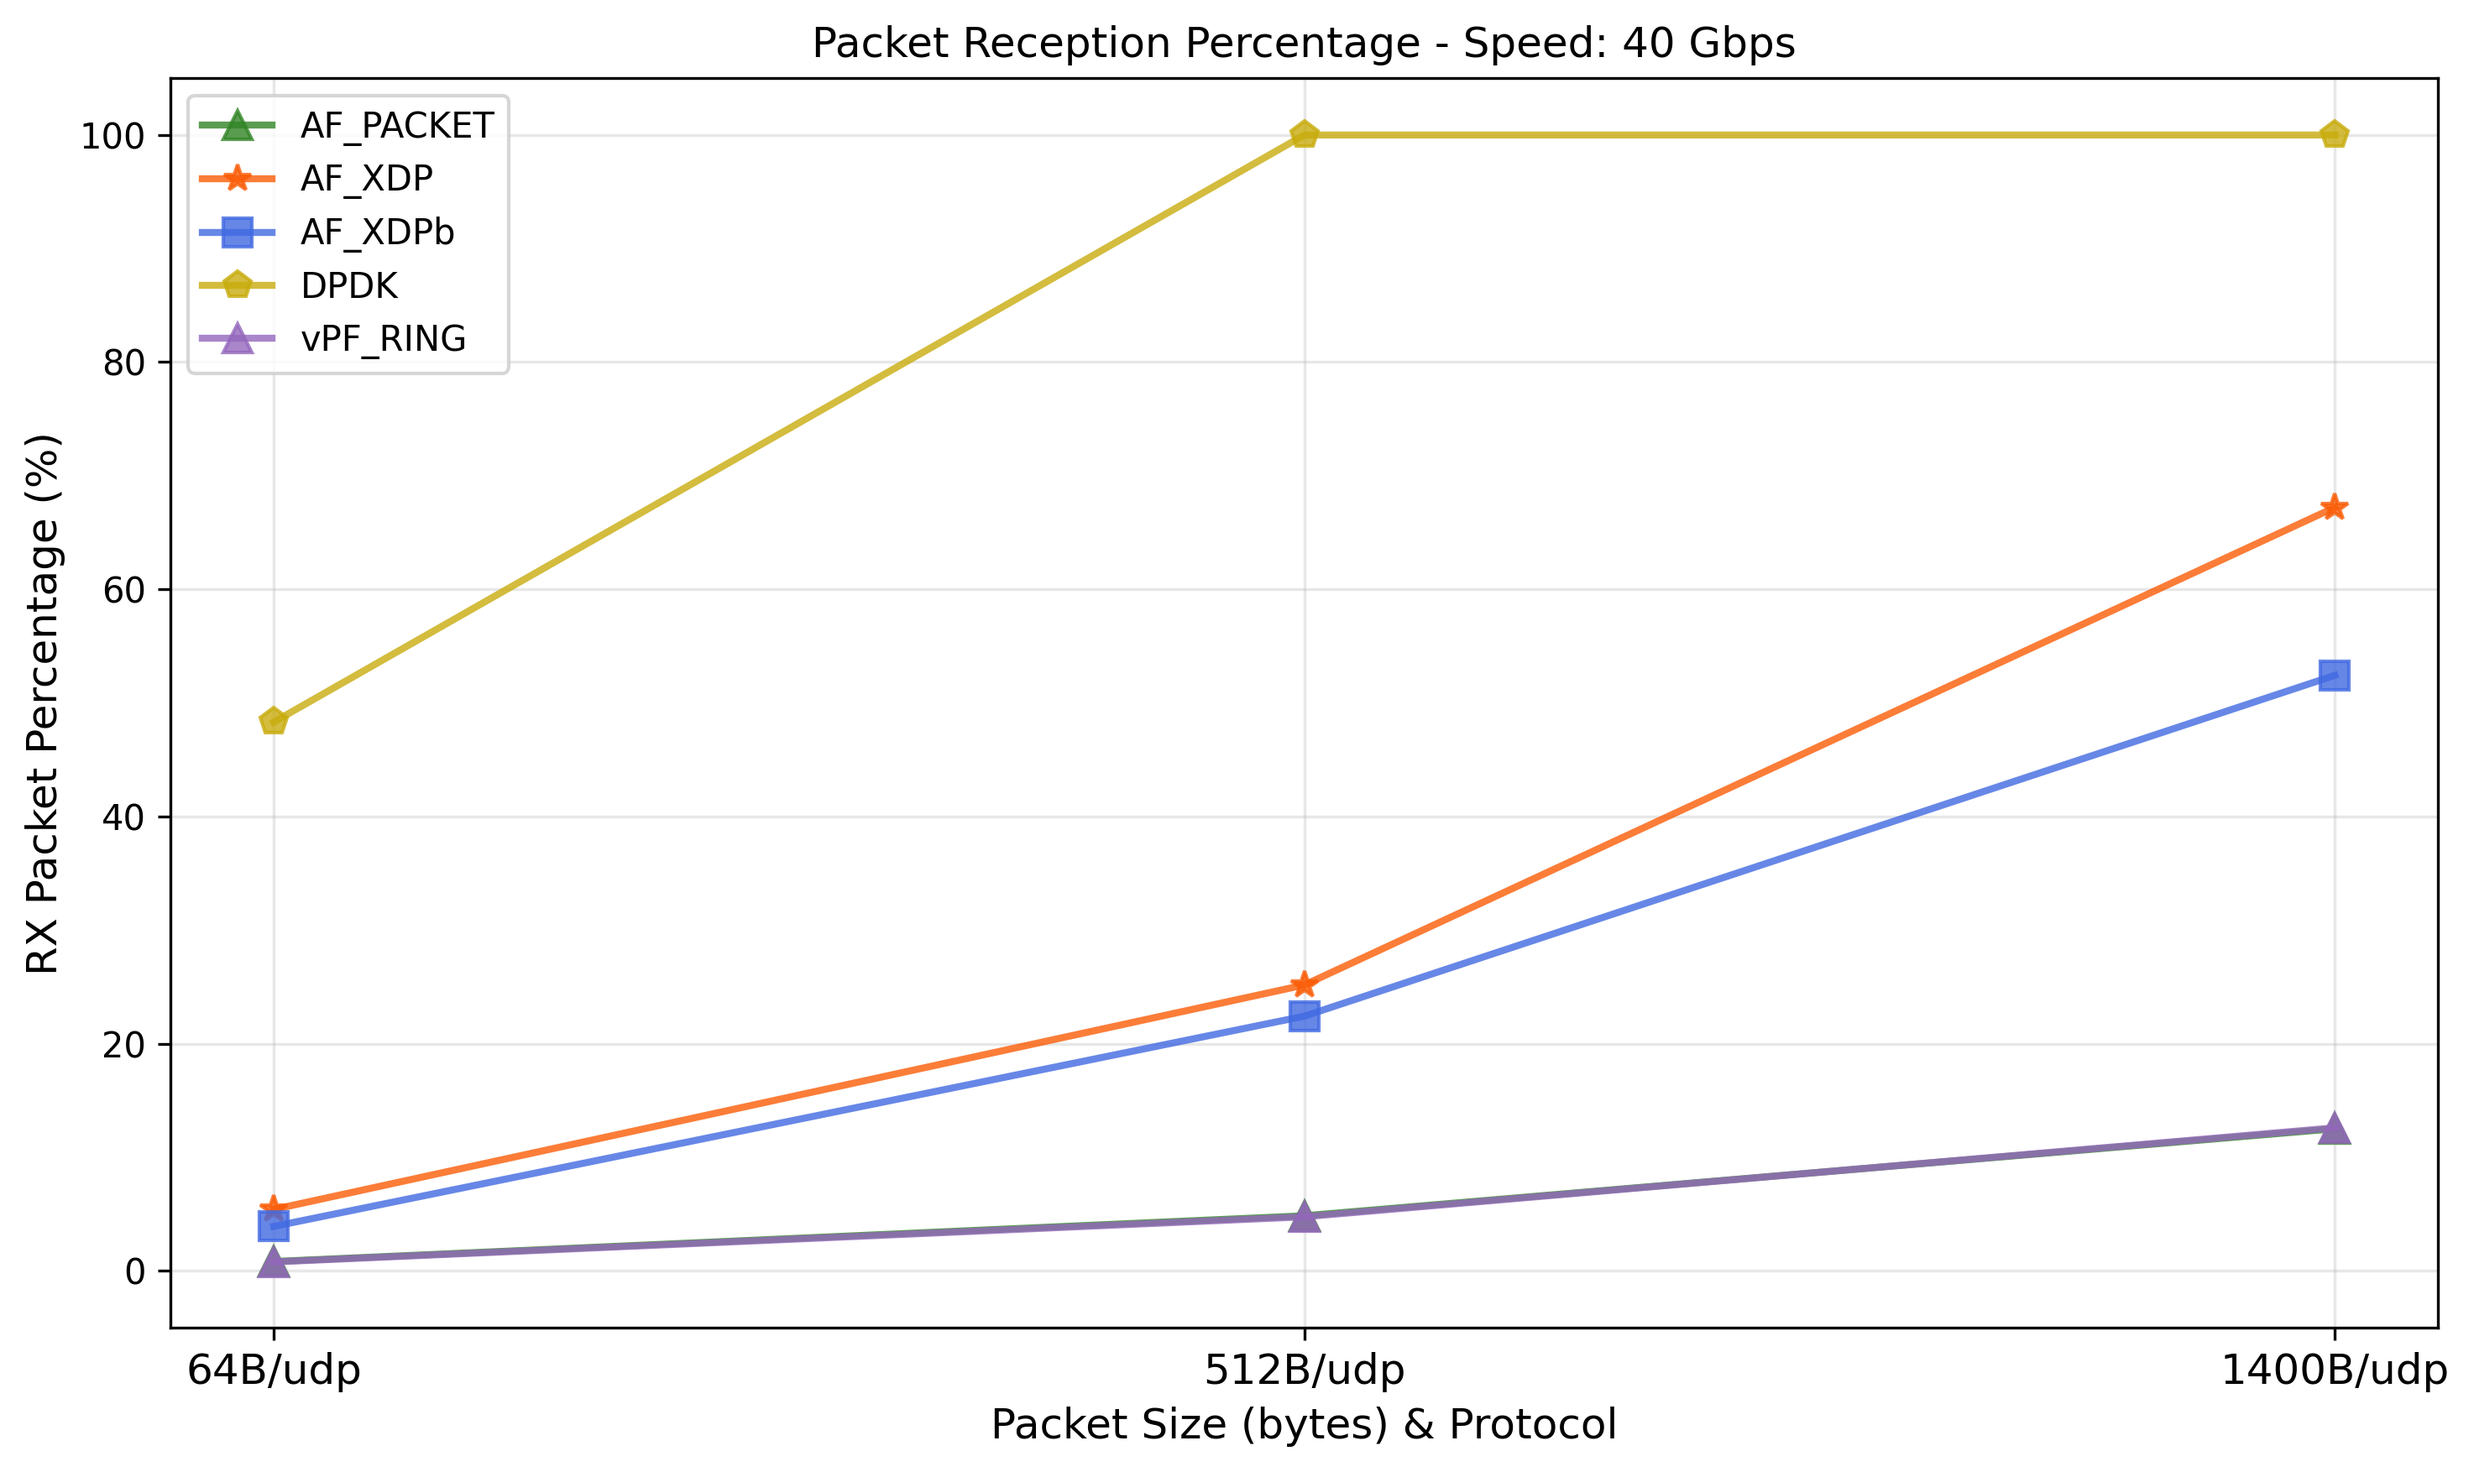
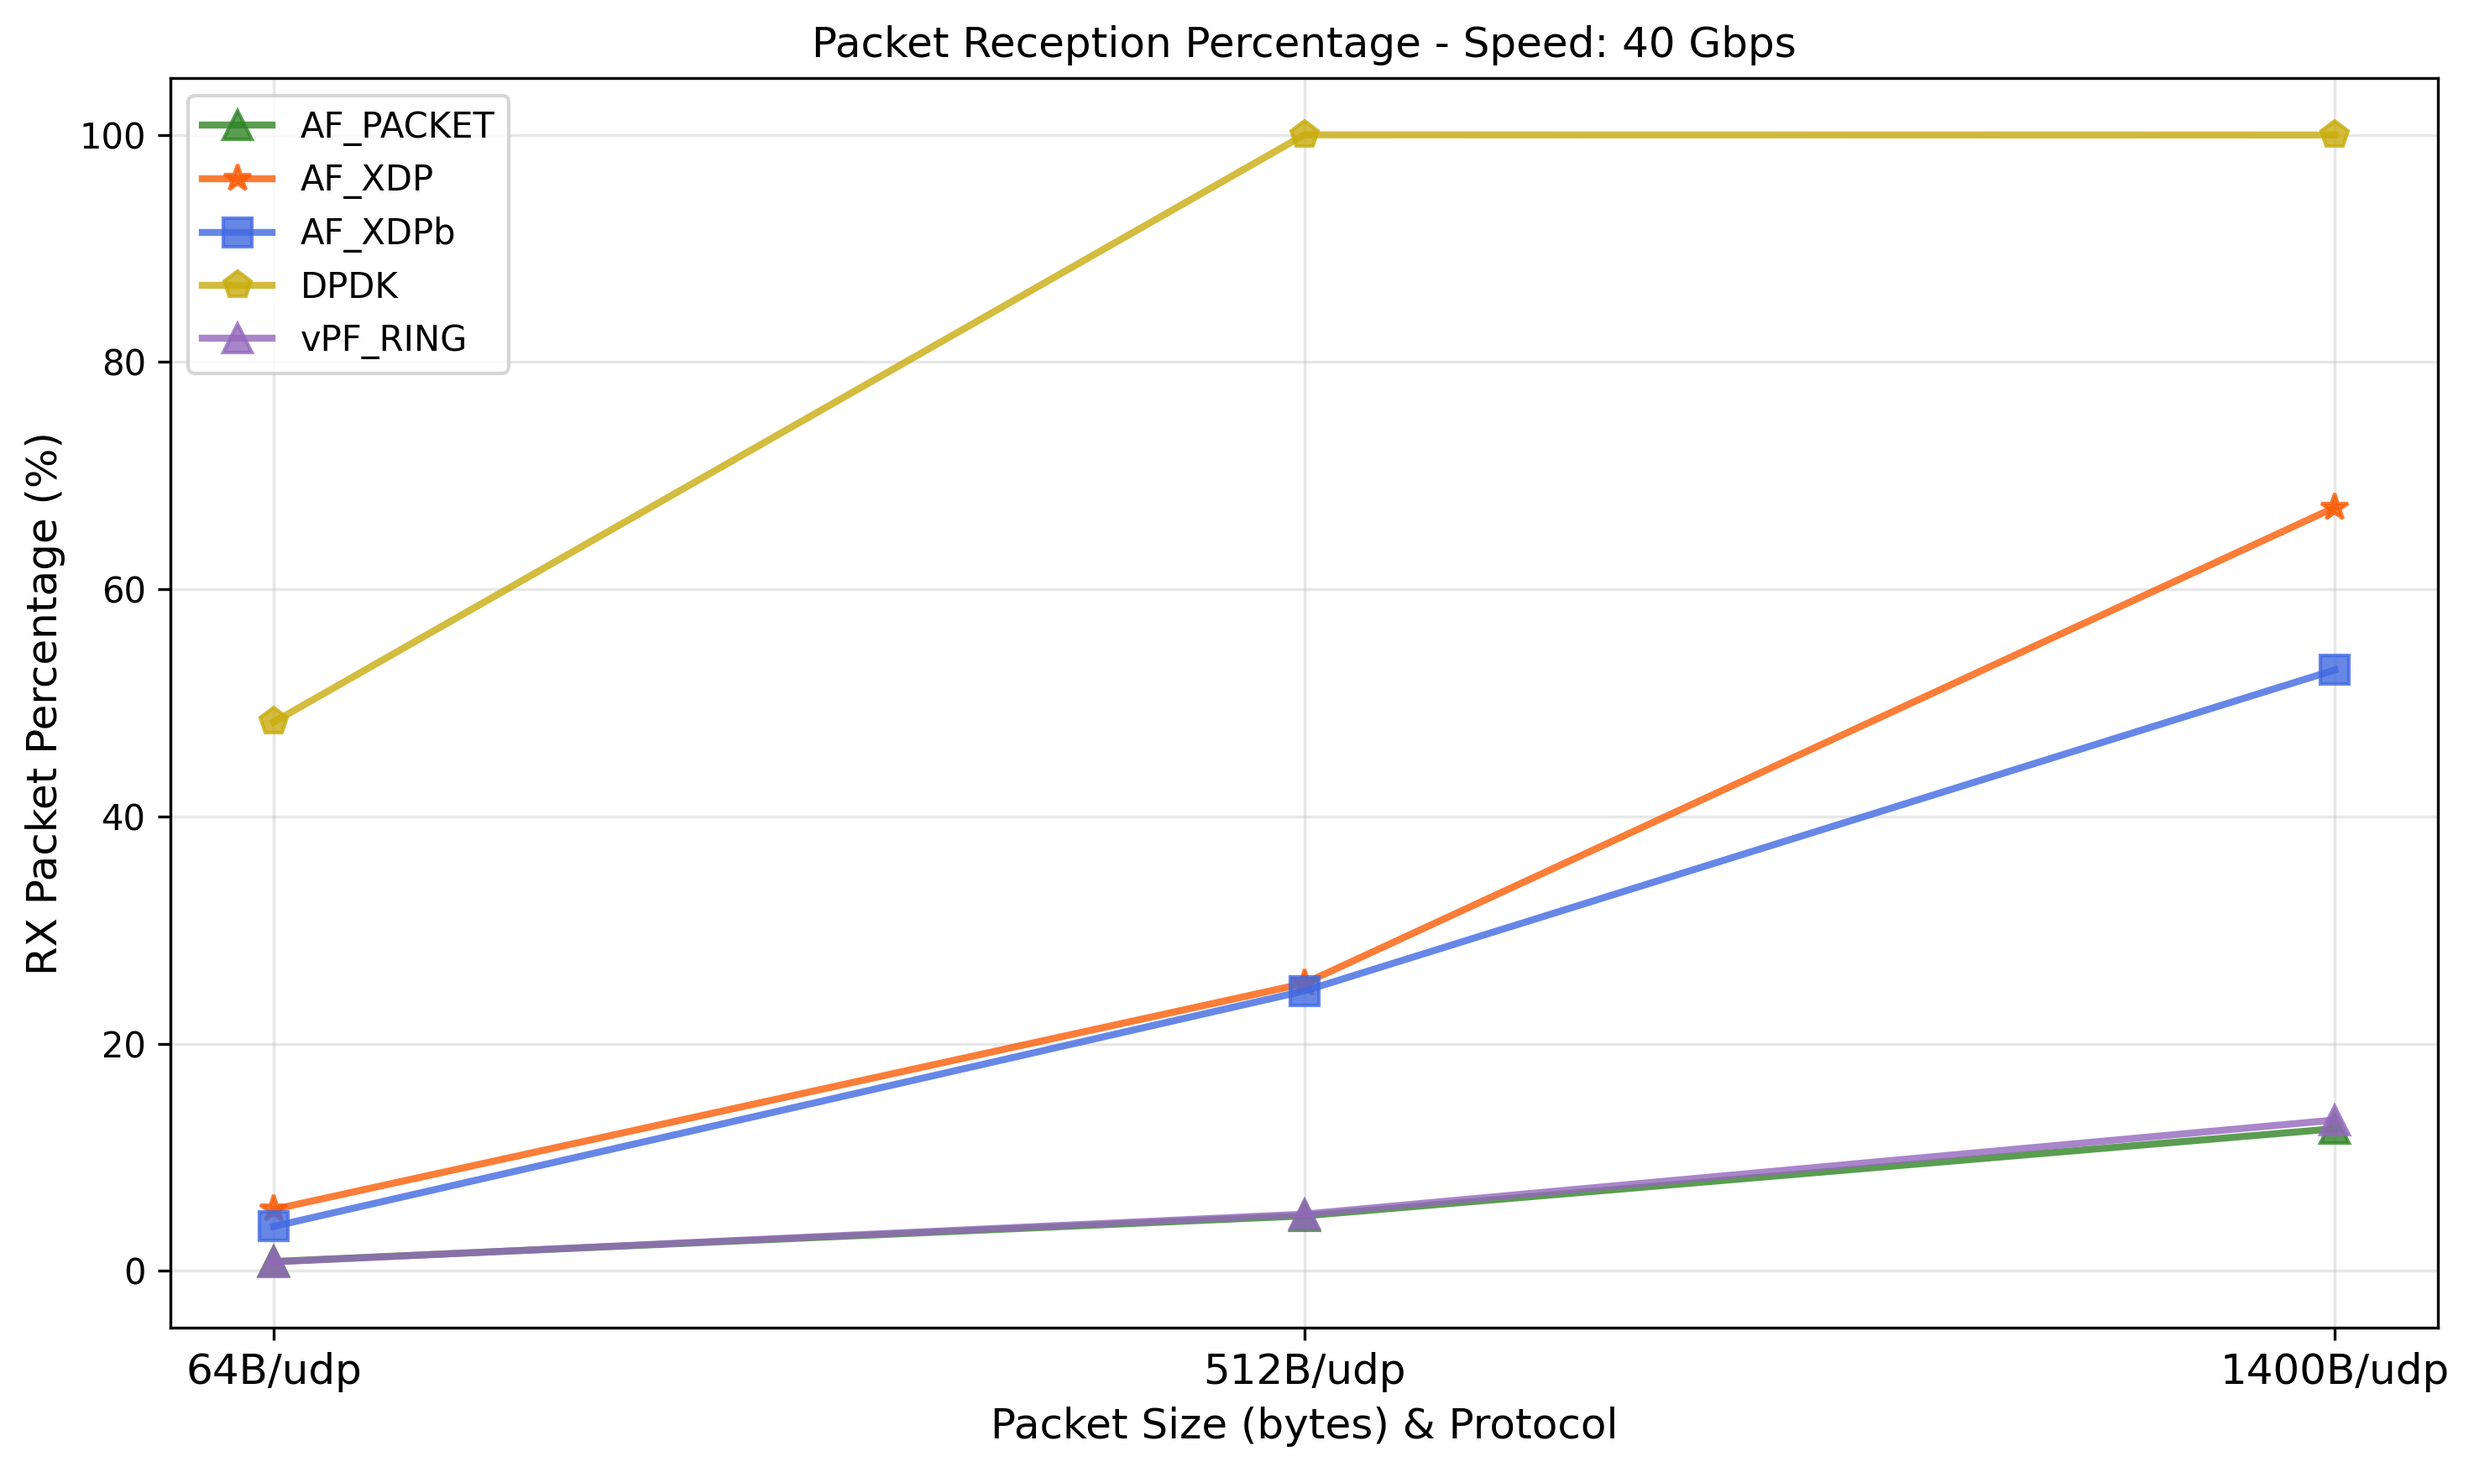
Latest suri config

diff --git a/plotting/plot_configuration_eval.py b/plotting/plot_configuration_eval.py
@@ -112,14 +112,14 @@ def plot_by_speed(parsed_results, output_folder):
                 })
     
     # For each speed and strategy, select only the best config
-    best_configs = defaultdict(dict)
+    best_configs = defaultdict(lambda: defaultdict(dict))
     for speed, scenario_data in speeds_data.items():
-        for strategy_data in scenario_data.values():
+        for (packet_size, protocol), strategy_data in scenario_data.items():
             for strategy, configs_list in strategy_data.items():
-                if strategy not in best_configs[speed]:
+                if strategy not in best_configs[speed][(packet_size, protocol)]:
                     # Find config with highest average rx_percentage across all scenarios
                     best_config = max(configs_list, key=lambda x: x["rx_percentage"])
-                    best_configs[speed][strategy] = best_config["config"]
+                    best_configs[speed][(packet_size, protocol)][strategy] = best_config["config"]
 
 
     
@@ -151,14 +151,12 @@ def plot_by_speed(parsed_results, output_folder):
             strategy_marker = markers[color_idx % len(markers)]
             color_idx += 1
             
-            # Use the best config for this strategy
-            best_config = best_configs[speed][strategy]
-            print(speed, strategy, best_config)
             # Collect Y values for this strategy and best config across all scenarios
             y_values = []
             valid_x_positions = []
             
             for x_pos, (packet_size, protocol) in enumerate(x_labels):
+                best_config = best_configs[speed][(packet_size, protocol)][strategy]
                 scenario_data = speeds_data[speed][(packet_size, protocol)]
                 
                 if strategy in scenario_data:
@@ -204,66 +202,66 @@ def plot_by_speed(parsed_results, output_folder):
 
 
 def plot_configs_by_strategy(parsed_results, output_folder):
-    strategy_speed_config = defaultdict(lambda: defaultdict(lambda: defaultdict(list)))
+    strategy_speed_config = defaultdict(lambda: defaultdict(lambda: defaultdict(lambda: defaultdict(list))))
 
-    for (speed, _, _), strategies in parsed_results.items():
+    for (speed, packet_size, proto), strategies in parsed_results.items():
         for strategy, configs in strategies.items():
             for config_key, loops_data in configs.items():
                 avg_rx_percentage = _average_rx_percentage(loops_data)
-                strategy_speed_config[strategy][config_key][speed].append(avg_rx_percentage)
+                strategy_speed_config[strategy][packet_size+"_"+proto][config_key][speed].append(avg_rx_percentage)
 
     colors = ["#318526", "#FA5C06", "#4169E1", "#c8ac0d", "#9467bd", "#8c564b", "#17becf"]
     markers = ["o", "^", "*", "s", "p", "d", "x"]
 
     for strategy in sorted(strategy_speed_config.keys()):
-        fig, ax = plt.subplots(figsize=(10, 6))
+        for packet_proto_key in sorted(strategy_speed_config[strategy].keys()):
+            fig, ax = plt.subplots(figsize=(10, 6))
 
-        config_data = strategy_speed_config[strategy]
-        all_speeds = sorted(
-            {speed for speed_data in config_data.values() for speed in speed_data.keys()},
-            key=lambda x: int(x)
-        )
-        x_positions = np.arange(len(all_speeds))
-        speed_to_x = {speed: idx for idx, speed in enumerate(all_speeds)}
+            config_data = strategy_speed_config[strategy][packet_proto_key]
+            all_speeds = sorted(
+                {speed for speed_data in config_data.values() for speed in speed_data.keys()},
+                key=lambda x: int(x)
+            )
+            x_positions = np.arange(len(all_speeds))
+            speed_to_x = {speed: idx for idx, speed in enumerate(all_speeds)}
+            for idx, config_key in enumerate(sorted(config_data.keys())):
+                y_values = []
+                valid_x_positions = []
+                for speed in all_speeds:
+                    values = config_data[config_key].get(speed, [])
+                    if values:
+                        y_values.append(float(np.mean(values)))
+                        valid_x_positions.append(speed_to_x[speed])
 
-        for idx, config_key in enumerate(sorted(config_data.keys())):
-            y_values = []
-            valid_x_positions = []
-            for speed in all_speeds:
-                values = config_data[config_key].get(speed, [])
-                if values:
-                    y_values.append(float(np.mean(values)))
-                    valid_x_positions.append(speed_to_x[speed])
+                if valid_x_positions:
+                    ax.plot(
+                        valid_x_positions,
+                        y_values,
+                        marker=markers[idx % len(markers)],
+                        linestyle='-',
+                        color=colors[idx % len(colors)],
+                        linewidth=2,
+                        markersize=7,
+                        label=config_key,
+                        alpha=0.85
+                    )
 
-            if valid_x_positions:
-                ax.plot(
-                    valid_x_positions,
-                    y_values,
-                    marker=markers[idx % len(markers)],
-                    linestyle='-',
-                    color=colors[idx % len(colors)],
-                    linewidth=2,
-                    markersize=7,
-                    label=config_key,
-                    alpha=0.85
-                )
+            ax.set_xlabel("Speed (Gbps)", fontsize=12)
+            ax.set_ylabel("RX Packet Percentage (%)", fontsize=12)
+            ax.set_title(f"Packet Reception Percentage by Config - Strategy: {strategy}, Packet/Protocol: {packet_proto_key}")
+            ax.set_ylim(-5, 105)
+            ax.set_xticks(x_positions)
+            ax.set_xticklabels([f"{speed}" for speed in all_speeds], fontsize=12)
+            ax.grid(True, alpha=0.3)
+            ax.legend(title="Config")
 
-        ax.set_xlabel("Speed (Gbps)", fontsize=12)
-        ax.set_ylabel("RX Packet Percentage (%)", fontsize=12)
-        ax.set_title(f"Packet Reception Percentage by Config - Strategy: {strategy}")
-        ax.set_ylim(-5, 105)
-        ax.set_xticks(x_positions)
-        ax.set_xticklabels([f"{speed}" for speed in all_speeds], fontsize=12)
-        ax.grid(True, alpha=0.3)
-        ax.legend(title="Config")
+            plt.tight_layout()
 
-        plt.tight_layout()
-
-        safe_strategy = re.sub(r"[^a-zA-Z0-9._-]", "_", strategy)
-        output_path = os.path.join(output_folder, f"strategy_{safe_strategy}_configs_by_speed.png")
-        plt.savefig(output_path, dpi=300, bbox_inches='tight')
-        print(f"Saved plot: {output_path}")
-        plt.close()
+            safe_strategy = re.sub(r"[^a-zA-Z0-9._-]", "_", strategy)
+            output_path = os.path.join(output_folder, f"strategy_{safe_strategy}_{packet_proto_key}.png")
+            plt.savefig(output_path, dpi=300, bbox_inches='tight')
+            print(f"Saved plot: {output_path}")
+            plt.close()
 
 
 

diff --git a/baseline_programs/af_xdp/src/af_xdp.c b/baseline_programs/af_xdp/src/af_xdp.c
@@ -242,7 +242,7 @@ int run_af_xdp(__u32 xdpflags, struct bpf_object *obj, __u32 num_threads, int st
 
     printf("Creating AF_XDP sockets. Dev => %s. Queues => %d.\n", dev, num_threads);
    
-    __u64 packet_buffer_size = num_frames * FRAME_SIZE;
+    __u64 packet_buffer_size = num_frames * FRAME_SIZE * 2;
     __u8 sk_created = 0;
     for (__u32 i = 0; i < num_threads; i++){
         // Allocate per-thread packet buffer

diff --git a/plotting/plot_baseline_multi_flows.py b/plotting/plot_baseline_multi_flows.py
@@ -179,7 +179,7 @@ def plot_by_scenario(parsed_results, output_folder):
 
         output_path = os.path.join(
             output_folder,
-            f"scenario_{scenario_name}_threads_rx_percentage.png"
+            f"{scenario_name}_rx_percentage.png"
         )
         plt.savefig(output_path, dpi=300, bbox_inches='tight')
         print(f"Saved plot: {output_path}")
